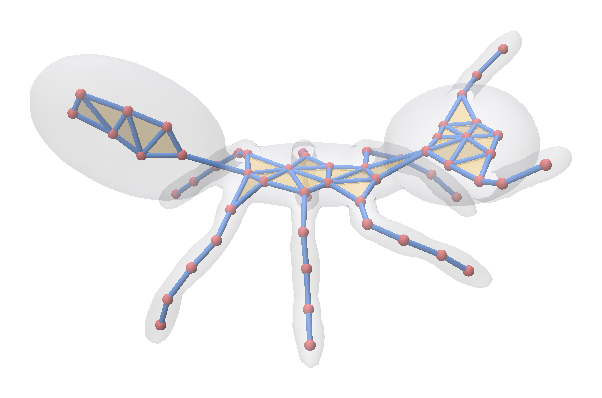
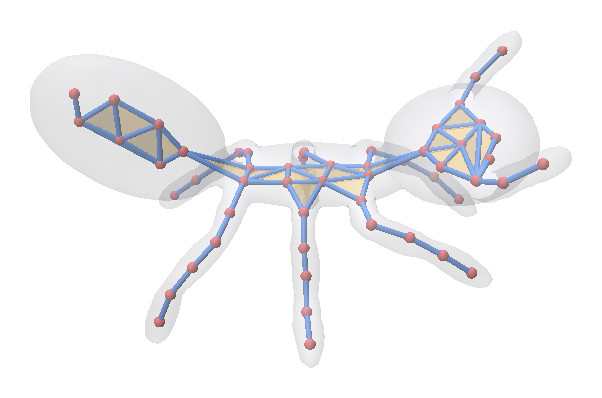
Skeleton connection with the anchored edge collapse of Q-MAT as in the paper; medial-ball output; Coverage Axis++ with its released parameters

diff --git a/Coverage_Axis_connection.py b/Coverage_Axis_connection.py
@@ -1,26 +1,36 @@
 # Author: Frank ZY Dou
-"""Skeleton connection for a mesh input (Sec. 4.3 of the Coverage Axis paper, mesh with candidates from the Voronoi
-diagram).
+"""Skeleton connection for a mesh input with Q-MAT (Sec. 4.3 of the Coverage Axis paper, "mesh with candidates from
+Voronoi diagram").
 
-The initial medial axis of the mesh (its inner Voronoi diagram, written by mesh_to_ma.py) carries the correct
-connectivity of the shape, and the selected inner points are vertices of it. The medial axis is simplified onto the
-selected points: every vertex of the medial axis is merged into the selected point that is closest to it along the
-medial axis (geodesic distance on the medial mesh, computed by a multi-source Dijkstra search). Two selected points
-are connected by an edge when their regions share an edge of the medial axis, and three selected points form a
-triangle when their regions meet at a face of the medial axis. The skeleton thus inherits the connectivity of the
-medial axis and has the selected points as its only vertices.
+The initial medial axis of the mesh (the inner Voronoi diagram written by mesh_to_ma.py) is simplified by the edge
+collapse of Q-MAT while the inner points selected by Coverage Axis / Coverage Axis++ serve as anchors: an edge whose
+two endpoints are anchors is never collapsed, an edge with one anchor endpoint is collapsed onto the anchor, and an
+edge without anchor endpoints is collapsed onto the optimal sphere of Q-MAT, until only the anchors remain. This runs
+mode 2 of the Q-MAT executable built from skel_connection/QMAT (every selected point is first snapped to its nearest
+medial axis vertex, an exact match for the Voronoi candidates).
 
-Outputs ``<out>.obj`` (vertices ``v``, edges ``l``, triangles ``f``) and ``<out>.ma`` (the .ma format of Q-MAT:
-``nv ne nf`` header, ``v x y z r``, 0-based ``e i j`` and ``f i j k``).
+Q-MAT works in coordinates divided by the bounding-box diagonal of the mesh and compares the selected points with
+its vertices in that scale, so the points are written for it in that scale; the exported skeleton is in the original
+coordinates again.
+
+Outputs ``<out>.obj`` (vertices ``v``, edges ``l``, triangles ``f``), ``<out>.ma`` (Q-MAT format with radii) and
+``<out>_balls.obj`` (the medial balls of the skeleton vertices as sphere meshes, for visualization).
 
 Example:
-    python Coverage_Axis_connection.py --ma ./input/01Ants-12_mesh.ma --selected ./output/mesh_selected_inner_points.txt --out ./output/mesh_skeleton
+    python Coverage_Axis_connection.py --mesh ./input/01Ants-12_mesh.off --ma ./input/01Ants-12_mesh.ma \
+        --selected ./output/mesh_selected_inner_points.txt --out ./output/mesh_skeleton
 """
 import argparse
+import glob
+import os
+import shutil
+import subprocess
+import tempfile
 import numpy as np
+import trimesh
 from scipy.spatial import cKDTree
 from scipy.sparse import coo_matrix
-from scipy.sparse.csgraph import connected_components, dijkstra
+from scipy.sparse.csgraph import connected_components
 from utils import read_VD
 
 
@@ -51,75 +61,62 @@ def write_obj(path, verts, edges, faces):
             f.write('f %d %d %d\n' % (t[0] + 1, t[1] + 1, t[2] + 1))
 
 
-def write_ma(path, verts, edges, faces):
+def write_balls(path, verts, sphere='./assets/sphere_I.obj'):
+    """The medial balls of the skeleton vertices as one OBJ of sphere meshes."""
+    unit = trimesh.load(sphere)
+    base_verts, base_faces = np.asarray(unit.vertices), np.asarray(unit.faces)
     with open(path, 'w') as f:
-        f.write('%d %d %d\n' % (len(verts), len(edges), len(faces)))
         for v in verts:
-            f.write('v %.8f %.8f %.8f %.8f\n' % (v[0], v[1], v[2], v[3]))
-        for e in edges:
-            f.write('e %d %d\n' % (e[0], e[1]))
-        for t in faces:
-            f.write('f %d %d %d\n' % (t[0], t[1], t[2]))
-
-
-def connect(ma_verts, ma_edges, ma_faces, anchors):
-    """Merge every medial axis vertex into its nearest anchor along the medial axis and return the edges and
-    triangles between the regions (indices into `anchors`), and the number of medial axis vertices no anchor reaches."""
-    n = len(ma_verts)
-    length = np.linalg.norm(ma_verts[ma_edges[:, 0], :3] - ma_verts[ma_edges[:, 1], :3], axis=1) + 1e-12
-    graph = coo_matrix((np.concatenate([length, length]),
-                        (np.concatenate([ma_edges[:, 0], ma_edges[:, 1]]), np.concatenate([ma_edges[:, 1], ma_edges[:, 0]]))),
-                       shape=(n, n)).tocsr()
-    distance, _, source = dijkstra(graph, directed=False, indices=anchors, min_only=True, return_predecessors=True)
-    reached = np.isfinite(distance)
-    region = np.full(n, -1)
-    region[anchors] = np.arange(len(anchors))
-    label = np.full(n, -1)
-    label[reached] = region[source[reached]]
-
-    edge_labels = label[ma_edges]
-    edge_labels = edge_labels[(edge_labels >= 0).all(1) & (edge_labels[:, 0] != edge_labels[:, 1])]
-    edges = np.unique(np.sort(edge_labels, axis=1), axis=0)
-    face_labels = label[ma_faces]
-    face_labels = face_labels[(face_labels >= 0).all(1)]
-    distinct = (face_labels[:, 0] != face_labels[:, 1]) & (face_labels[:, 1] != face_labels[:, 2]) & (face_labels[:, 0] != face_labels[:, 2])
-    faces = np.unique(np.sort(face_labels[distinct], axis=1), axis=0)
-    return edges, faces, int(np.sum(~reached))
+            for q in base_verts * v[3] + v[:3]:
+                f.write('v %f %f %f\n' % (q[0], q[1], q[2]))
+        for i in range(len(verts)):
+            for t in base_faces + i * len(base_verts) + 1:
+                f.write('f %d %d %d\n' % (t[0], t[1], t[2]))
 
 
 def main():
-    parser = argparse.ArgumentParser(description='Connect the selected inner points of a mesh into a skeleton along its medial axis.')
-    parser.add_argument('--ma', required=True, help='initial medial axis of the mesh (.ma written by mesh_to_ma.py)')
+    parser = argparse.ArgumentParser(description='Connect the selected inner points of a mesh into a skeleton with Q-MAT.')
+    parser.add_argument('--mesh', required=True, help='input triangle mesh (.off)')
+    parser.add_argument('--ma', required=True, help='initial medial axis of the mesh (.ma, see mesh_to_ma.py)')
     parser.add_argument('--selected', required=True, help='selected inner points with radii (v x y z r per line)')
+    parser.add_argument('--qmat', default='./skel_connection/QMAT/build/QMAT', help='Q-MAT executable (default: ./skel_connection/QMAT/build/QMAT)')
     parser.add_argument('--out', required=True, help='output prefix; writes <out>.obj and <out>.ma')
     args = parser.parse_args()
 
-    ma_verts, ma_edges, ma_faces = read_ma(args.ma)
+    if not os.path.isfile(args.qmat):
+        raise FileNotFoundError("Q-MAT executable not found at %s; build it as described in the README (Installation)" % args.qmat)
+    mesh = trimesh.load(args.mesh)
+    diagonal = float(np.linalg.norm(mesh.bounds[1] - mesh.bounds[0]))
     selected, radius = read_VD(args.selected)
     selected = np.concatenate([np.array(selected, dtype=float), np.array(radius, dtype=float)], axis=1)
-    print("Medial axis: %d vertices, %d edges, %d faces" % (len(ma_verts), len(ma_edges), len(ma_faces)))
     print("Selected inner points: %d" % len(selected))
 
-    snap, anchors = cKDTree(ma_verts[:, :3]).query(selected[:, :3])
-    print("Distance from the selected points to their medial axis vertices: max %.6f" % snap.max())
-    if len(np.unique(anchors)) != len(anchors):
-        raise ValueError("Two selected points fall on the same medial axis vertex. Select among the vertices of the medial axis "
-                         "(inner_points = \"voronoi\" with the candidates written by mesh_to_ma.py).")
+    workdir = tempfile.mkdtemp(prefix='qmat_')
+    poles = os.path.join(workdir, 'selected_points.txt')
+    with open(poles, 'w') as f:
+        for p in selected / diagonal:
+            f.write('v %.12f %.12f %.12f %.12f\n' % (p[0], p[1], p[2], p[3]))
+    command = [os.path.abspath(args.qmat), '2', os.path.abspath(args.mesh), os.path.abspath(args.ma), '0', workdir + '/', poles]
+    print("Running: " + ' '.join(command))
+    result = subprocess.run(command, stdin=subprocess.DEVNULL, capture_output=True, text=True)
+    exported = glob.glob(os.path.join(workdir, 'export_half___v_*.ma'))
+    if result.returncode != 0 or not exported:
+        raise RuntimeError("Q-MAT failed (exit code %d):\n%s\n%s" % (result.returncode, result.stdout[-2000:], result.stderr[-2000:]))
+    verts, edges, faces = read_ma(exported[0])
+    shutil.copyfile(exported[0], args.out + '.ma')
+    shutil.rmtree(workdir)
 
-    edges, faces, unreached = connect(ma_verts, ma_edges, ma_faces, anchors)
-    if unreached:
-        print("Warning: %d medial axis vertices belong to parts of the medial axis without any selected point" % unreached)
-
-    n = len(selected)
+    n = len(verts)
     adjacency = coo_matrix((np.ones(len(edges)), (edges[:, 0], edges[:, 1])), shape=(n, n))
     n_components = connected_components(adjacency, directed=False)[0]
-    degree = np.bincount(edges.ravel(), minlength=n)
-    print("Skeleton: %d vertices, %d edges, %d triangles, %d connected components, %d isolated vertices"
-          % (n, len(edges), len(faces), n_components, int(np.sum(degree == 0))))
+    distance = cKDTree(verts[:, :3]).query(selected[:, :3])[0]
+    print("Skeleton: %d vertices, %d edges, %d triangles, %d connected components" % (n, len(edges), len(faces), n_components))
+    print("Distance from the selected points to the skeleton vertices: mean %.4f, max %.4f (bounding-box diagonal %.3f)"
+          % (distance.mean(), distance.max(), diagonal))
 
-    write_obj(args.out + '.obj', selected, edges, faces)
-    write_ma(args.out + '.ma', selected, edges, faces)
-    print("Saved %s.obj and %s.ma" % (args.out, args.out))
+    write_obj(args.out + '.obj', verts, edges, faces)
+    write_balls(args.out + '_balls.obj', verts, os.path.join(os.path.dirname(os.path.abspath(__file__)), 'assets', 'sphere_I.obj'))
+    print("Saved %s.obj, %s.ma and %s_balls.obj" % (args.out, args.out, args.out))
 
 
 if __name__ == '__main__':

diff --git a/Coverage_Axis_plusplus_mesh.py b/Coverage_Axis_plusplus_mesh.py
@@ -124,7 +124,7 @@ candidates = innerpoints_g.cpu().numpy()
 # Done
 
 # solve by heuristic algorithm
-value_pos, grade, coverage_rate = heuristic_alg(D, candidates, radius_list, reg_radius=1, reg=0.5, max_iter=100, penalty='stand')
+value_pos, grade, coverage_rate = heuristic_alg(D, candidates, radius_list, reg_radius=1, reg=1, max_iter=100, penalty='')
 print("Coverage rate: ", 100*(1-coverage_rate), "%")
 print("The number of selected inner points: ", len(value_pos))
 save_obj("./output/mesh_selected_inner_points.obj", inner_points[value_pos])

diff --git a/README.md b/README.md
@@ -18,7 +18,7 @@ Related: some geometry tools for MAT and related topics are in [Geometry_Tools](
 
 - **[June, 2026]** Added a GPU-accelerated exact solver for the Coverage Axis point-selection step (beta). It solves the same 0-1 set-cover program and returns the same optimal selection as the original (no heuristic), with the coverage matrix built on the GPU (NVIDIA Warp) and the integer program solved exactly. Includes a double-cover-of-a-torus example (offset the surface inward and outward, then cover both shells). See [`CA_GPU`](CA_GPU).
 - **[May, 2026]** Added an integrated pipeline with **GPU Q-MAT** (beta): a GPU re-implementation of Q-MAT medial-axis simplification (NVIDIA Warp), with native support for preserving Coverage Axis poles via `--selected-poles`. See [Geometry_Tools/QMAT_GPU](https://github.com/Frank-ZY-Dou/Geometry_Tools/tree/main/QMAT_GPU).
-- **[Sep, 2026]** Added the skeleton connection step for mesh inputs to the tutorial: [mesh_to_ma.py](mesh_to_ma.py) computes the initial medial axis of the mesh (with the Voronoi candidate inner points) and [Coverage_Axis_connection.py](Coverage_Axis_connection.py) simplifies it onto the selected inner points (Sec. 4.3 of the paper). Pure Python, no compilation needed.
+- **[Sep, 2026]** Added the skeleton connection step for mesh inputs to the tutorial: [mesh_to_ma.py](mesh_to_ma.py) computes the initial medial axis of the mesh (with the Voronoi candidate inner points) and [Coverage_Axis_connection.py](Coverage_Axis_connection.py) simplifies it onto the selected inner points with the anchored edge collapse of Q-MAT (Sec. 4.3 of the paper).
 - **[Aug, 2025]** Added an integrated pipeline (credit to [Jiaxin Wang](https://github.com/Net-Maker)): [integrated_qmat_coverage_axis.py](https://github.com/Frank-ZY-Dou/Coverage_Axis/blob/main/integrated_qmat_coverage_axis.py). You will be using Q-MAT (see more instructions [here](https://github.com/Frank-ZY-Dou/Coverage_Axis/blob/main/skel_connection/README_EN.md)).
 
 🐱 **[Coverage Axis: Inner Point Selection for 3D Shape Skeletonization
@@ -85,7 +85,12 @@ conda activate CA
 pip install -r requirements.txt
 ```
 
-The tutorial below only needs this Python environment (the optional Q-MAT based pipeline in [More Information](#more-information) needs a C++ build).
+The skeleton connection step for mesh inputs uses [Q-MAT](https://github.com/Net-Maker/QMAT) (submodule `skel_connection/QMAT`, C++). It needs CGAL, GMP and MPFR; on Ubuntu:
+```angular2html
+sudo apt install cmake build-essential libcgal-dev libgmp-dev libmpfr-dev
+cd skel_connection/QMAT && mkdir build && cd build && cmake -DCMAKE_BUILD_TYPE=Release .. && make -j4 && cd ../../..
+```
+This produces the executable `skel_connection/QMAT/build/QMAT`. If the submodule folder is empty, run `git submodule update --init` first. The point-selection scripts do not need Q-MAT.
 
 # Usage
 
@@ -143,20 +148,21 @@ Instead of the vertices of the medial axis, randomly generated points inside the
 
 ### Skeleton connection
 ```angular2html
-python Coverage_Axis_connection.py --ma ./input/01Ants-12_mesh.ma --selected ./output/mesh_selected_inner_points.txt --out ./output/mesh_skeleton
+python Coverage_Axis_connection.py --mesh ./input/01Ants-12_mesh.off --ma ./input/01Ants-12_mesh.ma --selected ./output/mesh_selected_inner_points.txt --out ./output/mesh_skeleton
 ```
-connects the selected inner points into a skeleton following Sec. 4.3 of the Coverage Axis paper (mesh input with candidates from the Voronoi diagram): the selected points are anchors on the initial medial axis, and the medial axis is simplified onto them. Every vertex of the medial axis is merged into the selected point that is closest to it along the medial axis (geodesic distance on the medial mesh); two selected points are connected by an edge when their regions share an edge of the medial axis, and three selected points form a triangle when their regions meet at a face. The skeleton therefore inherits the connectivity of the medial axis and has exactly the selected points as vertices. The script prints the size of the skeleton and its number of connected components (one for the ant).
+connects the selected inner points into a skeleton following Sec. 4.3 of the Coverage Axis paper (mesh input with candidates from the Voronoi diagram): the selected points are anchors on the initial medial axis, which is simplified onto them by the edge collapse of Q-MAT. An edge whose two endpoints are anchors is never collapsed, an edge with one anchor endpoint is collapsed onto the anchor, and an edge without anchor endpoints is collapsed onto the optimal sphere of Q-MAT, until only the anchors remain; the skeleton therefore inherits the connectivity of the medial axis. The script runs mode 2 of the Q-MAT executable (`--qmat` gives its path if it is not `./skel_connection/QMAT/build/QMAT`) and prints the size of the skeleton, its number of connected components (one for the ant) and the distance between the selected points and the skeleton vertices (Q-MAT can move an anchor slightly when a collapse onto it would fold the medial mesh).
 
 The outputs are placed in the folder `output`.
 - `mesh_skeleton.obj` contains the skeleton: the vertices (`v`), the edges (`l`) and the triangles (`f`). MeshLab and Blender display the edges and triangles.
 - `mesh_skeleton.ma` contains the same skeleton with the radii of the medial balls in the `.ma` format of Q-MAT (`nv ne nf` header, then `v x y z r`, `e i j` and `f i j k` with 0-based indices).
+- `mesh_skeleton_balls.obj` contains the medial balls of the skeleton vertices as sphere meshes, to view the skeleton together with its balls as in the figures of the paper.
 
-<p align="center">
-<img src="./assets/fig_results_skeleton.png" 
-        alt="Picture" 
-        width="420" 
-        style="display: block; margin: 0 auto" />
-</p>
+<table align="center">
+<tr>
+<td align="center"><img src="./assets/fig_results_skeleton.png" width="360"/><br/><sub>skeleton: selected points, edges and triangles</sub></td>
+<td align="center"><img src="./assets/fig_results_skeleton_balls.png" width="360"/><br/><sub>skeleton with its medial balls</sub></td>
+</tr>
+</table>
 
 The same command works for the output of Coverage Axis++ (`Coverage_Axis_plusplus_mesh.py` writes the same `mesh_selected_inner_points.txt`).
 
@@ -331,13 +337,8 @@ toc;
 disp('min_number:');
 disp(fval);
 ```
-### Get connection result with Q-MAT
-The connection can also be established with the edge collapse of [Q-MAT](https://github.com/Net-Maker/QMAT) (mode 2 of the executable keeps the selected points as anchors), as done by [integrated_qmat_coverage_axis.py](integrated_qmat_coverage_axis.py): Q-MAT pre-simplification of the initial medial axis (`.ma` file, e.g. from `mesh_to_ma.py`), Coverage Axis++ selection and Q-MAT connection, see [skel_connection](./skel_connection/README_EN.md). It requires building the C++ submodule `skel_connection/QMAT` (CGAL, GMP and MPFR; tested on Ubuntu 22.04):
-```angular2html
-git submodule update --init
-sudo apt install cmake build-essential libcgal-dev libgmp-dev libmpfr-dev
-cd skel_connection/QMAT && mkdir build && cd build && cmake -DCMAKE_BUILD_TYPE=Release .. && make -j4 && cd ../../..
-```
+### Get connection result
+The skeleton connection of the tutorial above ([mesh_to_ma.py](mesh_to_ma.py) + [Coverage_Axis_connection.py](Coverage_Axis_connection.py)) uses Q-MAT. [integrated_qmat_coverage_axis.py](integrated_qmat_coverage_axis.py) is an all-in-one variant (Q-MAT pre-simplification of the initial medial axis, Coverage Axis++ selection, Q-MAT connection), see [skel_connection](./skel_connection/README_EN.md). Both have only been tested on Ubuntu 22.04.
 
 
 # Citation
